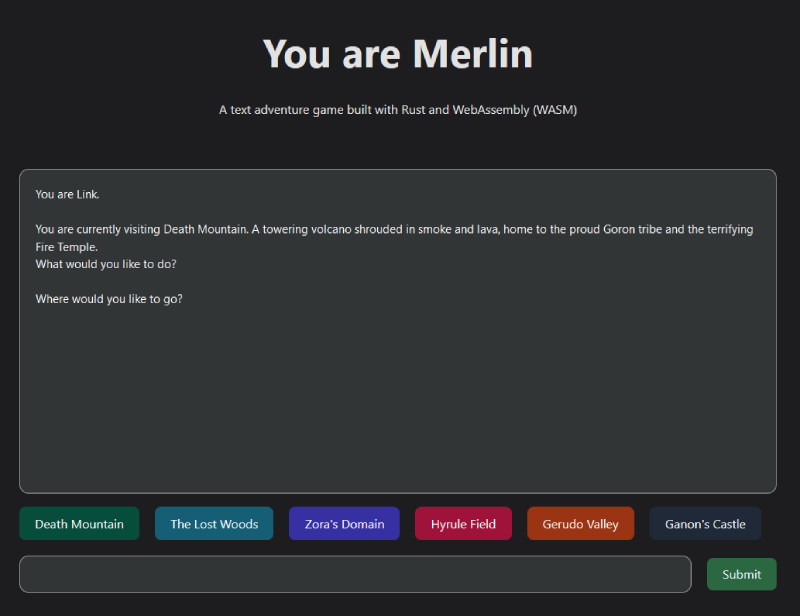
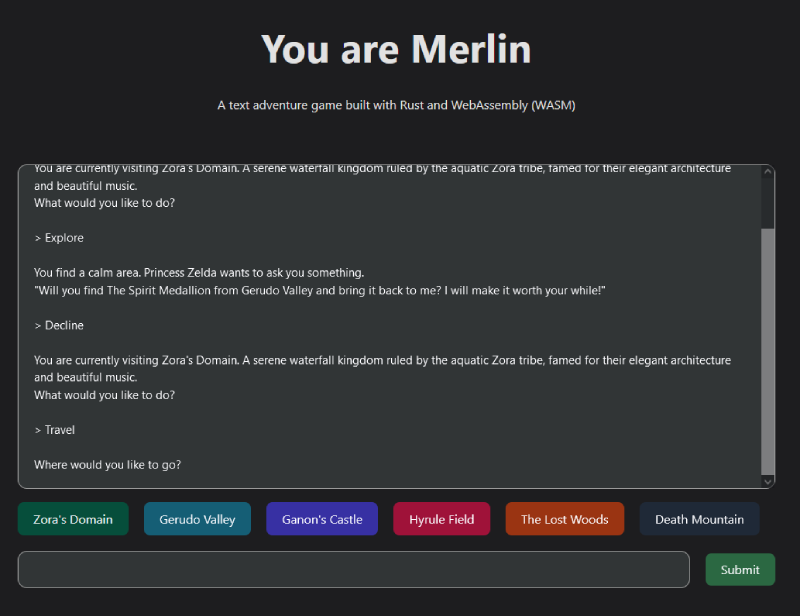
Updated readme

diff --git a/src/components/Game.tsx b/src/components/Game.tsx
@@ -42,8 +42,9 @@ export const Game = ({ theme, setTheme }: GameProps) => {
     event.preventDefault();
     const formData = new FormData(event.target);
     const input = formData.get("input");
+    const action = input ? input?.toString().trim() : "";
 
-    sendAction(input?.toString().trim() ?? "");
+    sendAction(action);
   };
 
   const updateTerminal = (value: string, newLine?: boolean) => {
@@ -53,6 +54,8 @@ export const Game = ({ theme, setTheme }: GameProps) => {
   };
 
   const sendAction = (action: string) => {
+    updateTerminal(`> ${action}`, true);
+
     const response = game.handle_action(action);
     if (response) updateTerminal(response);
 

diff --git a/README.md b/README.md
@@ -1,6 +1,6 @@
 # You are Merlin (WASM)
 
-A text adventure game, built with Rust. This is the WebAssembly (WASM) version.
+A text adventure game, built with Rust. This is the WebAssembly (WASM) version built with React, TypeScript etc etc.
 
 ![WASM Screenshot](screenshots/WASM-screenshot.png)
 
